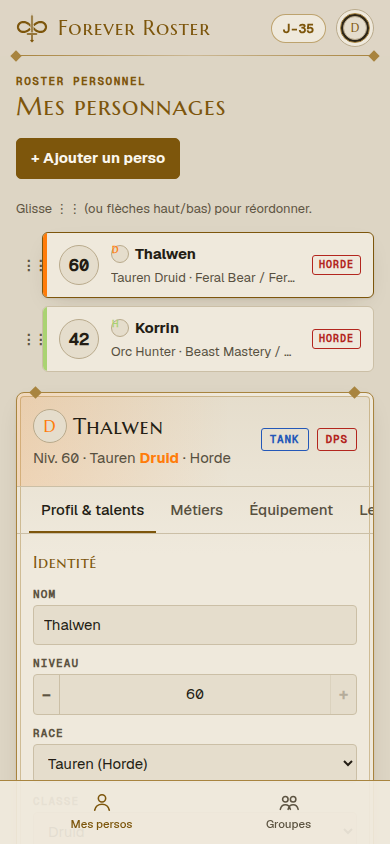
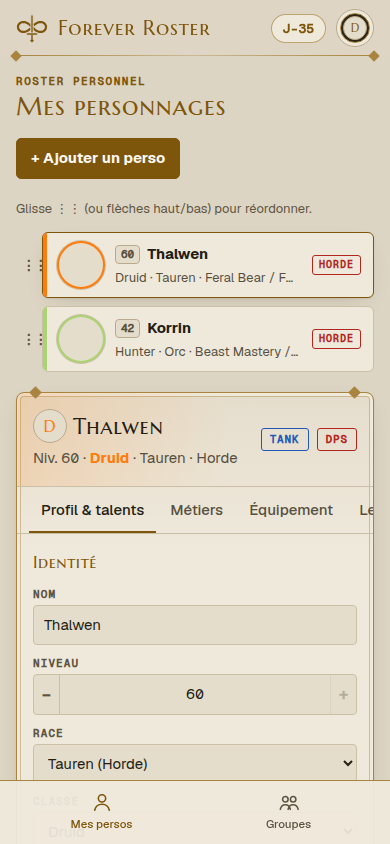
Emblèmes de faction, portraits dans la liste, onglet Personnages en fiches
- étendards Horde / Alliance à la place du texte (icônes du jeu téléchargées
  sur le serveur, texte en repli)
- Mes persos : portrait (ou icône de spé/classe) dans la liste, niveau en
  pastille à côté du nom ; la classe s'affiche avant la race partout
- Groupe > Personnages : grille de fiches (portrait, spés et rôles, métiers,
  joueur) avec filtre texte et par rôle, à la place du tableau
- captures de la documentation mises à jour

Claude-Session: https://claude.ai/code/session_01Bqq2nF6L1A4M8CKsbknfM3

Changed region(s): [[0.1231, 0.2773, 0.7385, 0.4313], [0.2154, 0.5237, 0.6154, 0.5545]]

diff --git a/apps/web/src/pages/GroupPage.tsx b/apps/web/src/pages/GroupPage.tsx
@@ -1,4 +1,4 @@
-import { CLASSES, RACES, SIGNUP_LABEL, SKILL_LINE_NAMES, WEEKDAYS, type ClassName, type SignupStatus } from "@forever/game-data";
+import { CLASSES, RACES, roleOf, SIGNUP_LABEL, SKILL_LINE_NAMES, WEEKDAYS, type ClassName, type Role, type SignupStatus } from "@forever/game-data";
 import { useQuery, useQueryClient } from "@tanstack/react-query";
 import { useEffect, useState, type FormEvent } from "react";
 import { Link, useNavigate, useParams } from "react-router-dom";
@@ -8,6 +8,7 @@ import { CharacterEditor } from "../components/CharacterEditor";
 import { CRAFTING } from "../components/GameData";
 import { Portrait } from "../components/ImageUpload";
 import { ItemHover, ItemIcon } from "../components/ItemTooltip";
+import { ClassIcon, FactionBadge, SpecIcon } from "../components/Icons";
 import { NumberField } from "../components/NumberField";
 import { ROLE_LABEL } from "./GroupsPage";
 
@@ -75,7 +76,7 @@ export function GroupPage() {
         <div className="pane">
           {tab === "raids" && <Raids groupId={groupId} canEdit={!!isOfficer} guard={guard} />}
           {tab === "members" && <Members groupId={groupId} members={members} myRole={role} myId={myId} guard={guard} />}
-          {tab === "characters" && <GroupCharacters groupId={groupId} />}
+          {tab === "characters" && <GroupCharacters groupId={groupId} members={members} />}
           {tab === "crafters" && <Crafters groupId={groupId} />}
           {tab === "admin" && isOfficer && (
             <div className="admin">
@@ -264,30 +265,67 @@ function Members({ groupId, members, myRole, myId, guard }: { groupId: string; m
   );
 }
 
-function GroupCharacters({ groupId }: { groupId: string }) {
+/** Persos des membres, regroupés par joueur : une fiche par perso, un clic ouvre sa fiche complète (lecture seule). */
+function GroupCharacters({ groupId, members }: { groupId: string; members: Member[] }) {
   const { data } = useQuery({ queryKey: ["group-chars", groupId], queryFn: () => get<{ characters: Character[] }>(`/groups/${groupId}/characters`) });
   const [open, setOpen] = useState<string | null>(null);
-  const opened = data?.characters.find(c => c.id === open);
+  const [filter, setFilter] = useState("");
+  const [role, setRole] = useState<"" | Role>("");
   if (!data) return <p className="muted">Chargement…</p>;
   if (!data.characters.length) return <p className="muted">Les membres n'ont pas encore de personnages.</p>;
+  const needle = filter.trim().toLowerCase();
+  const shown = data.characters.filter(c =>
+    (!needle || `${c.name} ${c.owner} ${c.cls} ${c.race} ${c.spec1} ${c.spec2}`.toLowerCase().includes(needle))
+    && (!role || roleOf(c.spec1) === role || roleOf(c.spec2) === role));
+  const byPlayer = members.map(m => ({ m, chars: shown.filter(c => c.userId === m.userId) })).filter(x => x.chars.length);
+  const opened = data.characters.find(c => c.id === open);
   return (
     <div className="stack">
-      <div className="tscroll"><table className="data">
-        <thead><tr><th>Perso</th><th>Joueur</th><th>Niv.</th><th>Race / classe</th><th>Spés</th><th>Métiers</th></tr></thead>
-        <tbody>{data.characters.map(c => {
+      <div className="row gc-tools">
+        <input type="text" aria-label="Filtrer les persos" placeholder="Filtrer (nom, joueur, classe, spé)…" value={filter} onChange={e => setFilter(e.target.value)} style={{ flex: "1 1 220px" }} />
+        <div className="seg" role="group" aria-label="Rôle">
+          {(["", "Tank", "Heal", "DPS"] as const).map(r => (
+            <button key={r || "all"} type="button" className={role === r ? "on" : ""} aria-pressed={role === r} onClick={() => setRole(r)}>{r || "Tous"}</button>
+          ))}
+        </div>
+      </div>
+      {!shown.length && <p className="muted">Aucun perso ne correspond.</p>}
+      <div className="gc-grid">
+        {byPlayer.flatMap(({ m, chars }) => chars.map(c => {
           const cl = CLASSES[c.cls as ClassName];
+          const race = RACES[c.race];
+          const profs = [c.professions.prof1, c.professions.prof2].filter(p => p.name);
           return (
-            <tr key={c.id}>
-              <td><button type="button" className="btn ghost sm" style={{ borderColor: cl?.color }} onClick={() => setOpen(o => o === c.id ? null : c.id)}>{c.name}</button></td>
-              <td>{c.owner}</td>
-              <td className="num">{c.level}</td>
-              <td>{c.race} <span style={{ color: cl?.color }}>{c.cls}</span> {RACES[c.race] && <span className={`fac ${RACES[c.race]!.faction}`}>{RACES[c.race]!.faction === "Alliance" ? "A" : "H"}</span>}</td>
-              <td>{[c.spec1, c.spec2].filter(Boolean).join(" / ")}</td>
-              <td className="small">{[c.professions.prof1, c.professions.prof2].filter(p => p.name).map(p => `${p.name} ${p.skill}`).join(" · ")}</td>
-            </tr>
+            <button key={c.id} type="button" className="gc-card" aria-expanded={open === c.id} style={{ ["--cc" as string]: cl?.color ?? "var(--line-2)" }}
+              onClick={() => setOpen(o => (o === c.id ? null : c.id))}>
+              <span className="cav" aria-hidden="true">
+                <Portrait id={c.portraitId} size={42} className="round"
+                  fallback={c.cls ? (c.spec1 ? <SpecIcon cls={c.cls} spec={c.spec1} size={30} /> : <ClassIcon cls={c.cls} size={30} />) : <span className="muted">?</span>} />
+              </span>
+              <span className="gc-main">
+                <span className="gc-name" style={{ color: cl?.color }}>{c.name}</span>
+                <span className="gc-sub"><span className="lvl-pill num">{c.level}</span>{[c.cls, c.race].filter(Boolean).join(" · ")}</span>
+              </span>
+              {race ? <FactionBadge faction={race.faction} size={22} /> : <span />}
+              <span className="gc-specs">
+                {[c.spec1, c.spec2].filter(Boolean).map((sp, i) => (
+                  <span key={sp} className={`gc-spec${i ? " off" : ""}`}>
+                    {c.cls && <SpecIcon cls={c.cls} spec={sp} size={16} />}{sp}
+                    {roleOf(sp) && <span className={`role ${roleOf(sp)}`}>{roleOf(sp)}</span>}
+                  </span>
+                ))}
+              </span>
+              <span className="gc-foot">
+                <span className="gc-owner">
+                  <span className="avatar" style={{ width: 18, height: 18 }}><Portrait id={m.avatarId} size={18} fallback={<span style={{ fontSize: 10 }}>{m.displayName[0]}</span>} /></span>
+                  {m.displayName}
+                </span>
+                {profs.length > 0 && <span className="gc-profs">{profs.map(p => `${p.name} ${p.skill}`).join(" · ")}</span>}
+              </span>
+            </button>
           );
-        })}</tbody>
-      </table></div>
+        }))}
+      </div>
       {opened && <CharacterEditor character={opened} editable={false} onChange={() => {}} />}
     </div>
   );

diff --git a/apps/web/src/styles.css b/apps/web/src/styles.css
@@ -97,6 +97,8 @@ textarea { min-height: 120px; resize: vertical; line-height: 1.5; }
 .tag.bad { color: var(--bad); border-color: var(--bad); }
 .fac { font: 600 10px/1 var(--f-mono); letter-spacing: .1em; padding: 4px 6px; border-radius: 3px; border: 1px solid currentColor; }
 .fac.Alliance { color: var(--alli); } .fac.Horde { color: var(--horde); }
+.fac-img { display: inline-block; vertical-align: middle; border-radius: 4px; box-shadow: 0 0 0 1px var(--line-2); }
+.fac-img.Alliance { box-shadow: 0 0 0 1px var(--alli); } .fac-img.Horde { box-shadow: 0 0 0 1px var(--horde); }
 .role { font: 600 11px/1 var(--f-mono); letter-spacing: .08em; text-transform: uppercase; padding: 5px 8px; border-radius: 3px; border: 1px solid var(--line-2); color: var(--ink-2); }
 .role.Tank { color: var(--alli); border-color: var(--alli); } .role.Heal { color: var(--ok); border-color: var(--ok); } .role.DPS { color: var(--bad); border-color: var(--bad); }
 
@@ -117,9 +119,13 @@ textarea { min-height: 120px; resize: vertical; line-height: 1.5; }
 .card:hover { border-color: var(--line-2); }
 .card[aria-current="true"] { border-color: var(--gold); box-shadow: var(--shadow); }
 .lvl { grid-row: span 2; font: 600 17px/1 var(--f-mono); width: 40px; height: 40px; display: grid; place-items: center; border: 1px solid var(--line-2); border-radius: 50%; background: var(--panel-2); }
+.cav { grid-row: span 2; width: 44px; height: 44px; display: grid; place-items: center; border-radius: 50%; background: var(--panel-2); box-shadow: 0 0 0 2px var(--cc), 0 0 0 3px var(--line); overflow: hidden; }
+.cav img { width: 100%; height: 100%; object-fit: cover; border-radius: 50%; }
+.cav .sicon, .cav .cicon { width: 30px; height: 30px; border-radius: 50%; }
+.lvl-pill { display: inline-block; min-width: 24px; margin-right: 7px; padding: 2px 5px; border-radius: 4px; font: 600 11px/1.2 var(--f-mono); text-align: center; vertical-align: 1px; background: var(--panel-2); border: 1px solid var(--line-2); color: var(--ink-2); }
 .card .nm { font-weight: 700; white-space: nowrap; overflow: hidden; text-overflow: ellipsis; }
 .card .sub { font-size: 13px; color: var(--ink-2); white-space: nowrap; overflow: hidden; text-overflow: ellipsis; }
-.card .fac { grid-row: span 2; }
+.card .fac, .card .fac-img { grid-row: span 2; align-self: center; }
 
 /* Fiche perso */
 .dhead { --cc: var(--line-2); display: flex; flex-wrap: wrap; gap: 12px 20px; align-items: center; justify-content: space-between; padding: 18px 20px 14px; border-bottom: 1px solid var(--line); background: linear-gradient(90deg, color-mix(in srgb, var(--cc) 16%, transparent), transparent 60%); border-radius: 8px 8px 0 0; }
@@ -485,3 +491,28 @@ input[type=range] { width: 100%; accent-color: var(--gold); }
 .danger-zone h3 { color: var(--bad); }
 .ilink { color: inherit; text-decoration: none; }
 .ilink:hover > span:not(.iicon), .ilink:focus-visible > span:not(.iicon) { text-decoration: underline; text-underline-offset: 3px; }
+
+/* Groupe > Personnages : fiches par joueur */
+.gc-tools { align-items: center; }
+.seg { display: inline-flex; border: 1px solid var(--line-2); border-radius: 6px; overflow: hidden; }
+.seg button { background: var(--panel); border: 0; padding: 6px 11px; font: 600 12.5px/1.2 var(--f-body); color: var(--ink-2); cursor: pointer; }
+.seg button + button { border-left: 1px solid var(--line-2); }
+.seg button.on { background: color-mix(in srgb, var(--gold) 22%, var(--panel)); color: var(--ink); }
+.gc-grid { display: grid; grid-template-columns: repeat(auto-fill, minmax(270px, 1fr)); gap: 10px; }
+.gc-card { --cc: var(--line-2); position: relative; display: grid; grid-template-columns: auto minmax(0, 1fr) auto; gap: 8px 12px; align-items: center; text-align: left;
+  background: var(--panel-2); border: 1px solid var(--line); border-radius: 8px; padding: 12px 12px 12px 16px; cursor: pointer; color: var(--ink); overflow: hidden; }
+.gc-card::before { content: ""; position: absolute; left: 0; top: 0; bottom: 0; width: 4px; background: var(--cc); }
+.gc-card:hover { border-color: var(--line-2); }
+.gc-card[aria-expanded="true"] { border-color: var(--gold); box-shadow: var(--shadow); }
+.gc-card .cav { grid-row: auto; }
+.gc-main { display: grid; gap: 3px; min-width: 0; }
+.gc-name { font-weight: 700; font-size: 15px; white-space: nowrap; overflow: hidden; text-overflow: ellipsis; }
+.gc-sub { font-size: 13px; color: var(--ink-2); white-space: nowrap; overflow: hidden; text-overflow: ellipsis; }
+.gc-specs { grid-column: 1 / -1; display: flex; flex-wrap: wrap; gap: 6px; }
+.gc-spec { display: inline-flex; align-items: center; gap: 6px; font-size: 12.5px; padding: 3px 6px 3px 4px; border-radius: 5px; background: var(--panel); border: 1px solid var(--line); }
+.gc-spec.off { opacity: .8; }
+.gc-spec .role { padding: 2px 4px; font-size: 9px; }
+.gc-spec .sicon, .gc-spec .cicon { border-radius: 3px; }
+.gc-foot { grid-column: 1 / -1; display: flex; justify-content: space-between; align-items: center; gap: 8px; padding-top: 8px; border-top: 1px solid var(--line); font-size: 12px; color: var(--ink-3); min-width: 0; }
+.gc-owner { display: inline-flex; align-items: center; gap: 6px; color: var(--ink-2); white-space: nowrap; }
+.gc-profs { text-align: right; overflow: hidden; text-overflow: ellipsis; white-space: nowrap; }

diff --git a/apps/web/src/pages/CharactersPage.tsx b/apps/web/src/pages/CharactersPage.tsx
@@ -3,7 +3,8 @@ import { useQuery, useQueryClient } from "@tanstack/react-query";
 import { useEffect, useRef, useState } from "react";
 import { ApiError, del, get, patch, post, put, type Character } from "../api";
 import { CharacterEditor } from "../components/CharacterEditor";
-import { ClassIcon } from "../components/Icons";
+import { ClassIcon, FactionBadge, SpecIcon } from "../components/Icons";
+import { Portrait } from "../components/ImageUpload";
 
 const TALENTS_RE = /^(\d{1,2}\/\d{1,2}\/\d{1,2})?$/;
 const LINK_RE = /^(https:\/\/\S+)?$/;
@@ -137,10 +138,13 @@ export function CharacterCard({ c, current, onClick }: { c: Character; current?:
   const specs = [c.spec1, c.spec2].filter(Boolean).join(" / ");
   return (
     <button type="button" className="card" aria-current={current ? "true" : "false"} style={{ ["--cc" as string]: cl?.color ?? "var(--line-2)" }} onClick={onClick}>
-      <span className="lvl num">{c.level}</span>
-      <span className="nm">{c.cls && <ClassIcon cls={c.cls} size={18} className="inline" />}{c.name}</span>
-      {race ? <span className={`fac ${race.faction}`}>{race.faction === "Alliance" ? "ALLI" : "HORDE"}</span> : <span />}
-      <span className="sub">{[c.race, c.cls].filter(Boolean).join(" ") || "À configurer"}{specs && ` · ${specs}`}</span>
+      <span className="cav" aria-hidden="true">
+        <Portrait id={c.portraitId} size={42} className="round"
+          fallback={c.cls ? (c.spec1 ? <SpecIcon cls={c.cls} spec={c.spec1} size={30} /> : <ClassIcon cls={c.cls} size={30} />) : <span className="muted">?</span>} />
+      </span>
+      <span className="nm"><span className="lvl-pill num" title={`Niveau ${c.level}`}>{c.level}</span>{c.name}</span>
+      {race ? <FactionBadge faction={race.faction} /> : <span />}
+      <span className="sub">{[c.cls, c.race].filter(Boolean).join(" · ") || "À configurer"}{specs && ` · ${specs}`}</span>
     </button>
   );
 }

diff --git a/apps/web/src/components/Icons.tsx b/apps/web/src/components/Icons.tsx
@@ -35,3 +35,17 @@ export function SpecIcon({ cls, spec, size = 28, className }: { cls: string; spe
   if (!src) return <ClassIcon cls={cls} size={size} className={className} />;
   return <img key={src} className={`sicon ${className ?? ""}`} src={src} width={size} height={size} alt="" title={spec} loading="lazy" decoding="async" onError={() => setBad(b => [...b, src])} />;
 }
+
+/**
+ * Emblème de faction (icône du jeu téléchargée sur le serveur, icons/faction/) ;
+ * repli : l'étiquette texte, si l'image n'est pas encore là.
+ */
+export function FactionBadge({ faction, size = 26, short = false }: { faction: "Alliance" | "Horde"; size?: number; short?: boolean }) {
+  const [bad, setBad] = useState(false);
+  const label = short ? faction[0] : faction === "Alliance" ? "ALLI" : "HORDE";
+  if (bad) return <span className={`fac ${faction}`} title={faction}>{label}</span>;
+  return (
+    <img className={`fac-img ${faction}`} src={`/icons/faction/${faction.toLowerCase()}.jpg`} width={size} height={size}
+      alt={faction} title={faction} loading="lazy" decoding="async" onError={() => setBad(true)} />
+  );
+}

diff --git a/apps/web/src/components/CharacterEditor.tsx b/apps/web/src/components/CharacterEditor.tsx
@@ -44,7 +44,7 @@ export function CharacterEditor({ character: c, editable, onChange, footer, onPo
             <span>{c.name}</span>
           </h2>
           <div className="line">
-            Niv. <span className="num">{c.level}</span> · {c.race || "Race ?"} <span className="cls">{c.cls || "Classe ?"}</span>
+            Niv. <span className="num">{c.level}</span> · <span className="cls">{c.cls || "Classe ?"}</span> · {c.race || "Race ?"}
             {race && ` · ${race.faction}`}{c.owner && ` · Joueur : ${c.owner}`}
           </div>
         </div>

diff --git a/docs/operations.md b/docs/operations.md
@@ -246,6 +246,10 @@ Noms reconnus : `ClassIcon_<classe>.png`, `<Classe><n>-<Spé ou arbre>.png` et `
 
 En développement, copier le dossier `icons/` dans `apps/web/public/icons/` (lui aussi ignoré par Git).
 
+### Emblèmes de faction
+
+`scripts/fetch-item-icons.sh` télécharge aussi les étendards de la Horde et de l'Alliance (icônes `inv_bannerpvp_01` et `inv_bannerpvp_02`) dans `icons/faction/`. Tant qu'ils manquent, le site affiche l'étiquette texte « HORDE » ou « ALLI ».
+
 ### Icônes des objets
 
 L'import retrouve le nom de l'icône de chaque objet (liste de fichiers communautaire), puis `scripts/import-gamedata.sh` appelle `scripts/fetch-item-icons.sh`. Ce script télécharge les icônes manquantes depuis le serveur d'images officiel de Blizzard (`render.worldofwarcraft.com`) dans `icons/items/`, une seule fois chacune (≈ 3 000 fichiers, ≈ 10 Mo). Les visiteurs ne contactent toujours que notre serveur. Seuls les noms simples (`a-z`, `0-9`, `_`, `-`) sont acceptés, et un fichier n'est gardé que s'il s'agit bien d'un JPEG.
